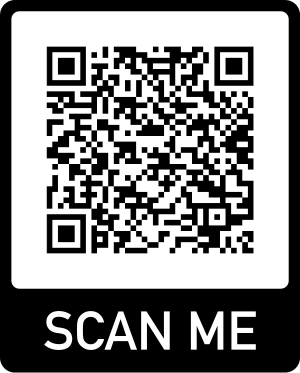
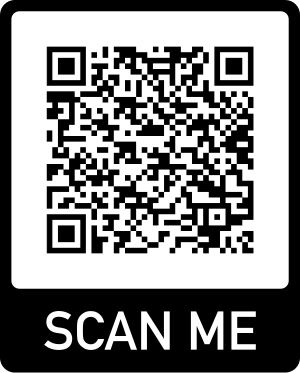
Update hymnchtv for 2.4.2 link

Changed region(s): [[0.15, 0.2359, 0.39, 0.6783], [0.51, 0.4718, 0.57, 0.5308]]

diff --git a/hymnchtv/faq.html b/hymnchtv/faq.html
@@ -148,8 +148,8 @@ ul li {
      i.e. <a href="https://github.com/cmeng-git/hymnchtv/releases">https://github.com/cmeng-git/hymnchtv/releases</a>.<br />
      The lastest release at the time of this online help update is: </div>
    <div class='innerText'>
-     <li><a href="https://github.com/cmeng-git/hymnchtv/releases/download/2.4.1/hymnchtv-debug.apk">
-     https://github.com/cmeng-git/hymnchtv/releases/download/2.4.1/hymnchtv-debug.apk</a></li>
+     <li><a href="https://github.com/cmeng-git/hymnchtv/releases/download/2.4.2/hymnchtv-debug.apk">
+     https://github.com/cmeng-git/hymnchtv/releases/download/2.4.2/hymnchtv-debug.apk</a></li>
    </div>
    <div class='innerText'>Please note that the debug apk contains a different signature from the one in android
      playstore apk. Android OS will prompt you to uninstall the existing app if any, before you can install the debug
